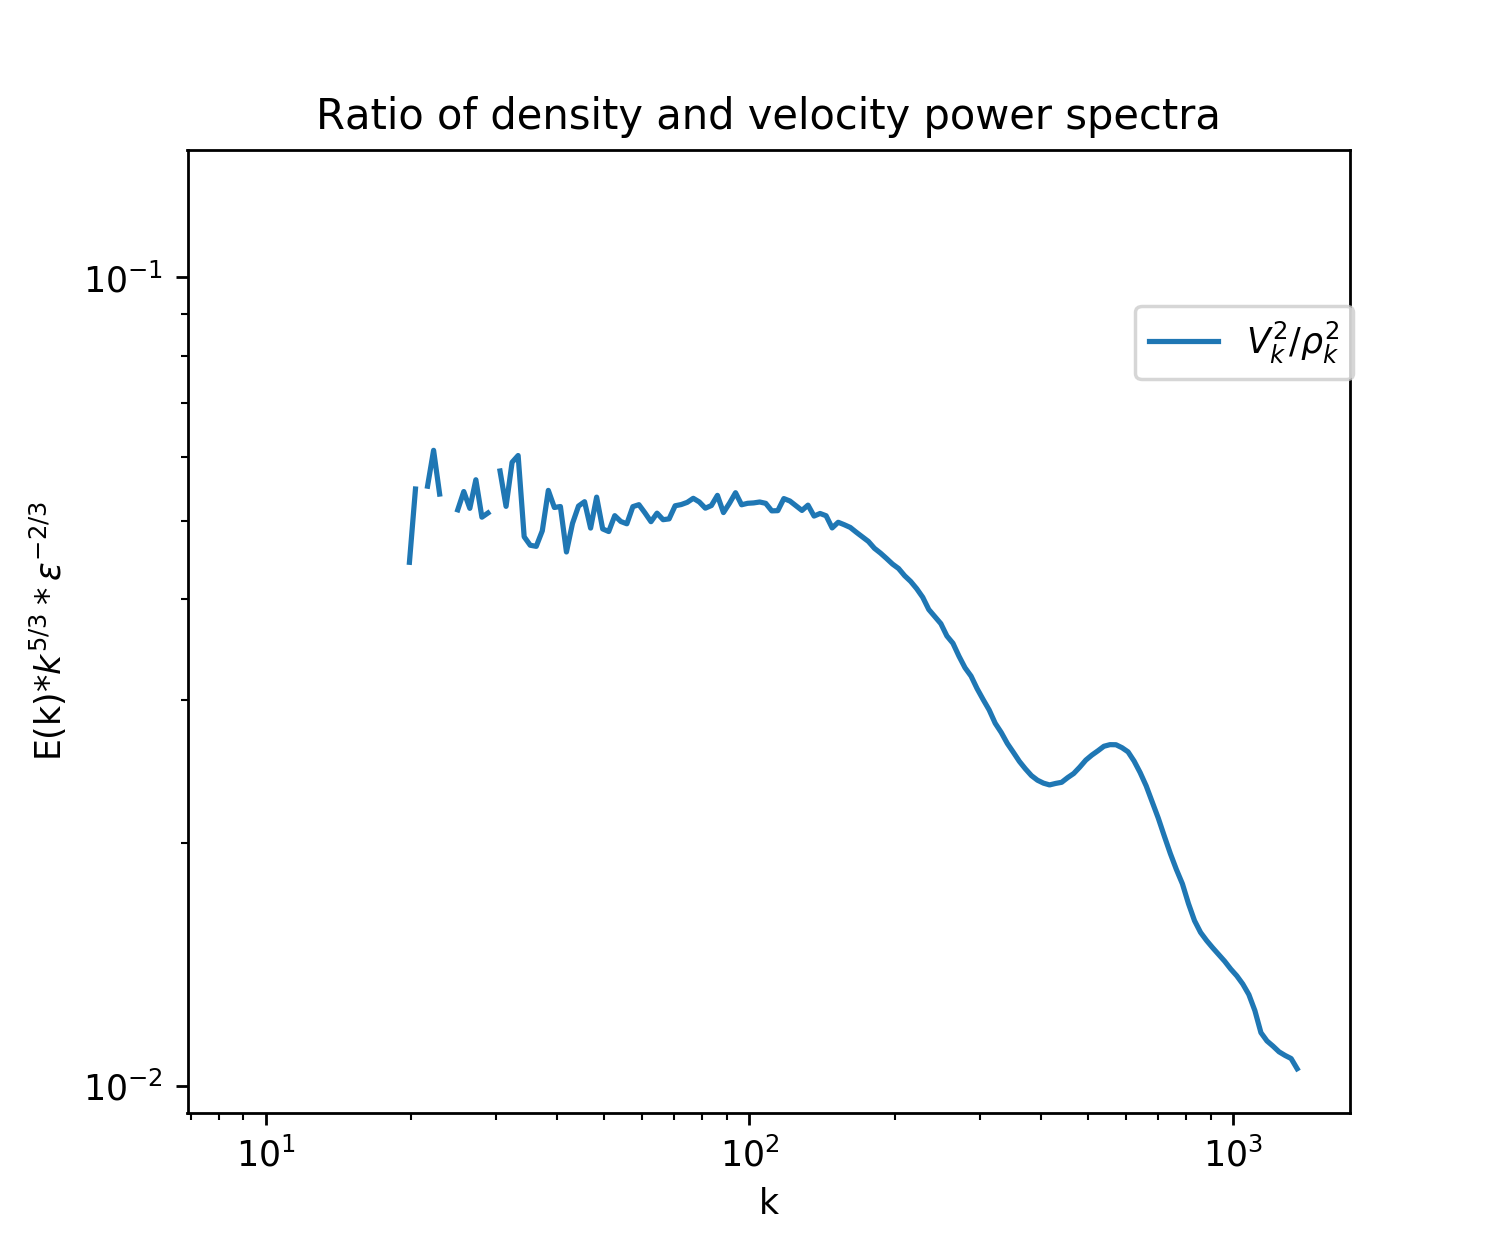
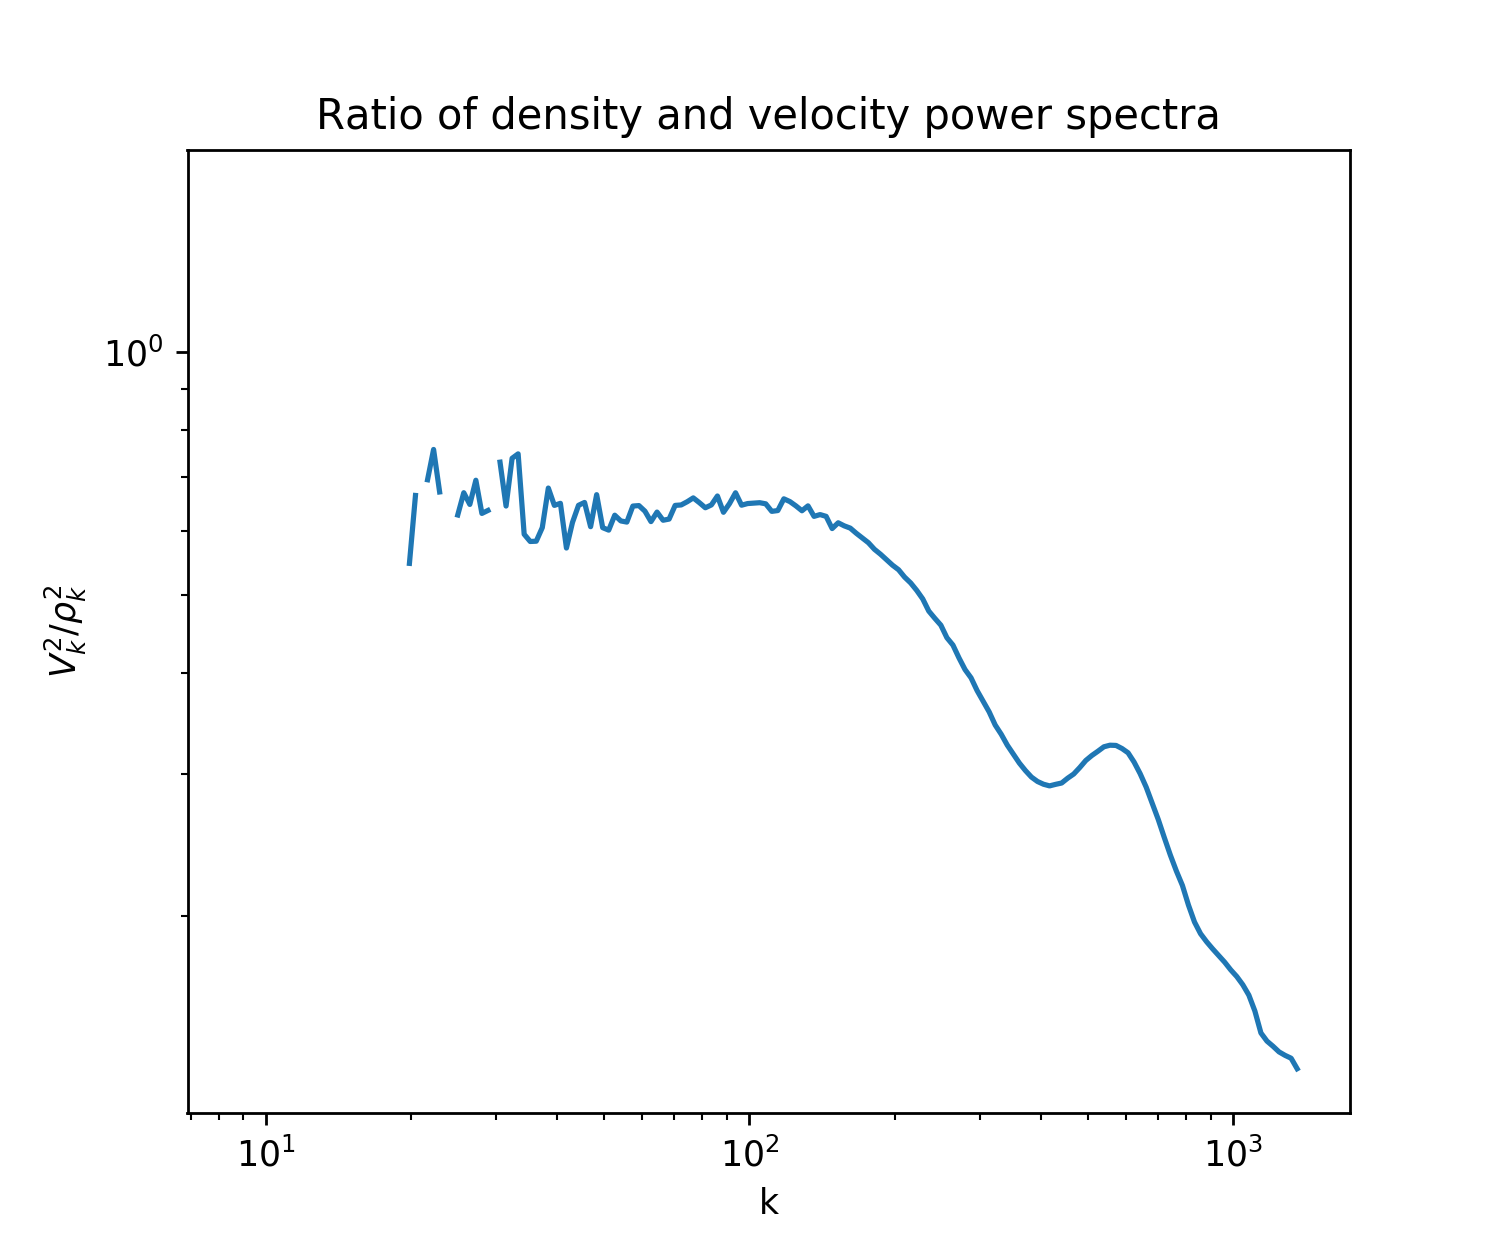
Edited a plot

diff --git a/All_analysis/diff_spectra.py b/All_analysis/diff_spectra.py
@@ -97,16 +97,12 @@ plt.savefig('E_k_compensated_rho-vel_lowk_256.png',dpi=250)
 #Plot ratio
 fig, ax = plt.subplots()
 fig.set_size_inches(6, 5)
-plt.plot(k1[1:-10],Ek_comp1[1:-10]/Ek_comp2[1:-10],label=r'$V_k^2/\rho_k^2$')
+plt.plot(k1[1:-10],Ek1[1:-10]/Ek2[1:-10])
 ax.set_yscale('log')
 ax.set_xscale('log')
 plt.xlabel('k')
-plt.ylabel('E(k)*$k^{5/3}*\epsilon^{-2/3}$')
+plt.ylabel(r'$V_k^2/\rho_k^2$')
 plt.ylim()
-# Shrink current axis by 20%
-box = ax.get_position()
-# Put a legend to the right of the current axis
-ax.legend(loc='center left', bbox_to_anchor=(0.8, 0.8))
 plt.title(r'Ratio of density and velocity power spectra' )
 plt.savefig('Ratio_rho-vel_lowk_256.png',dpi=250)
 
